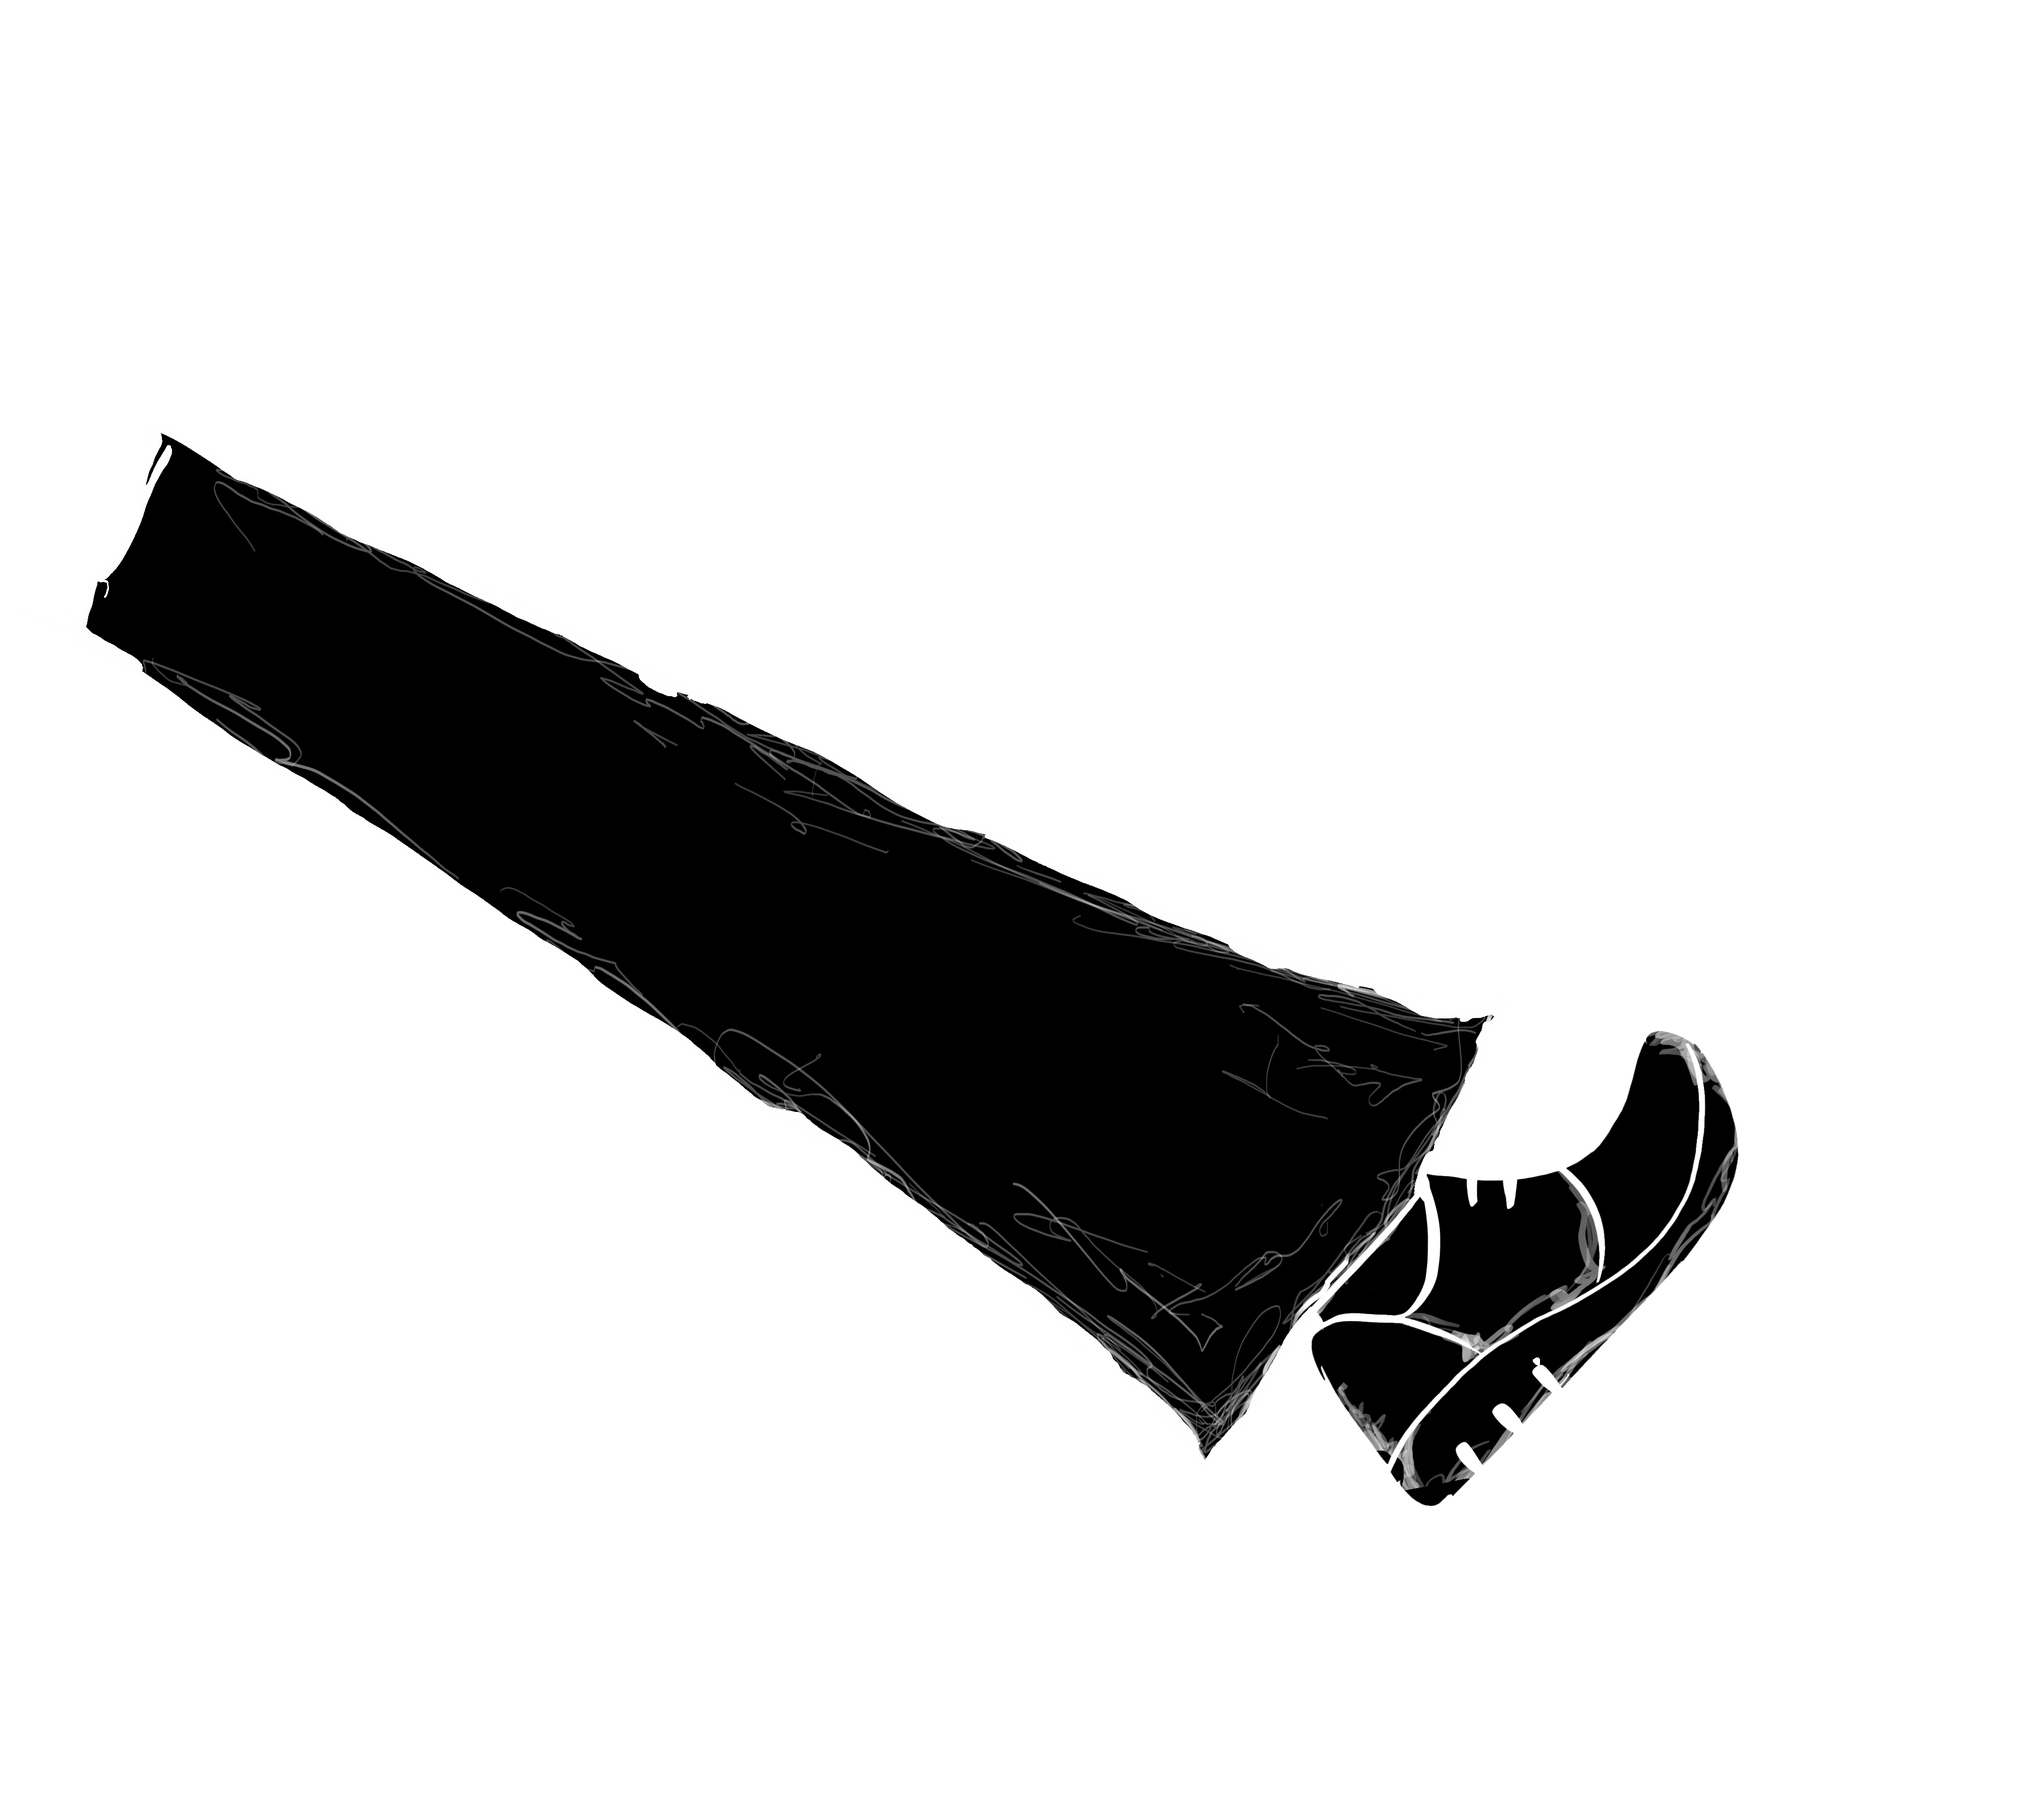
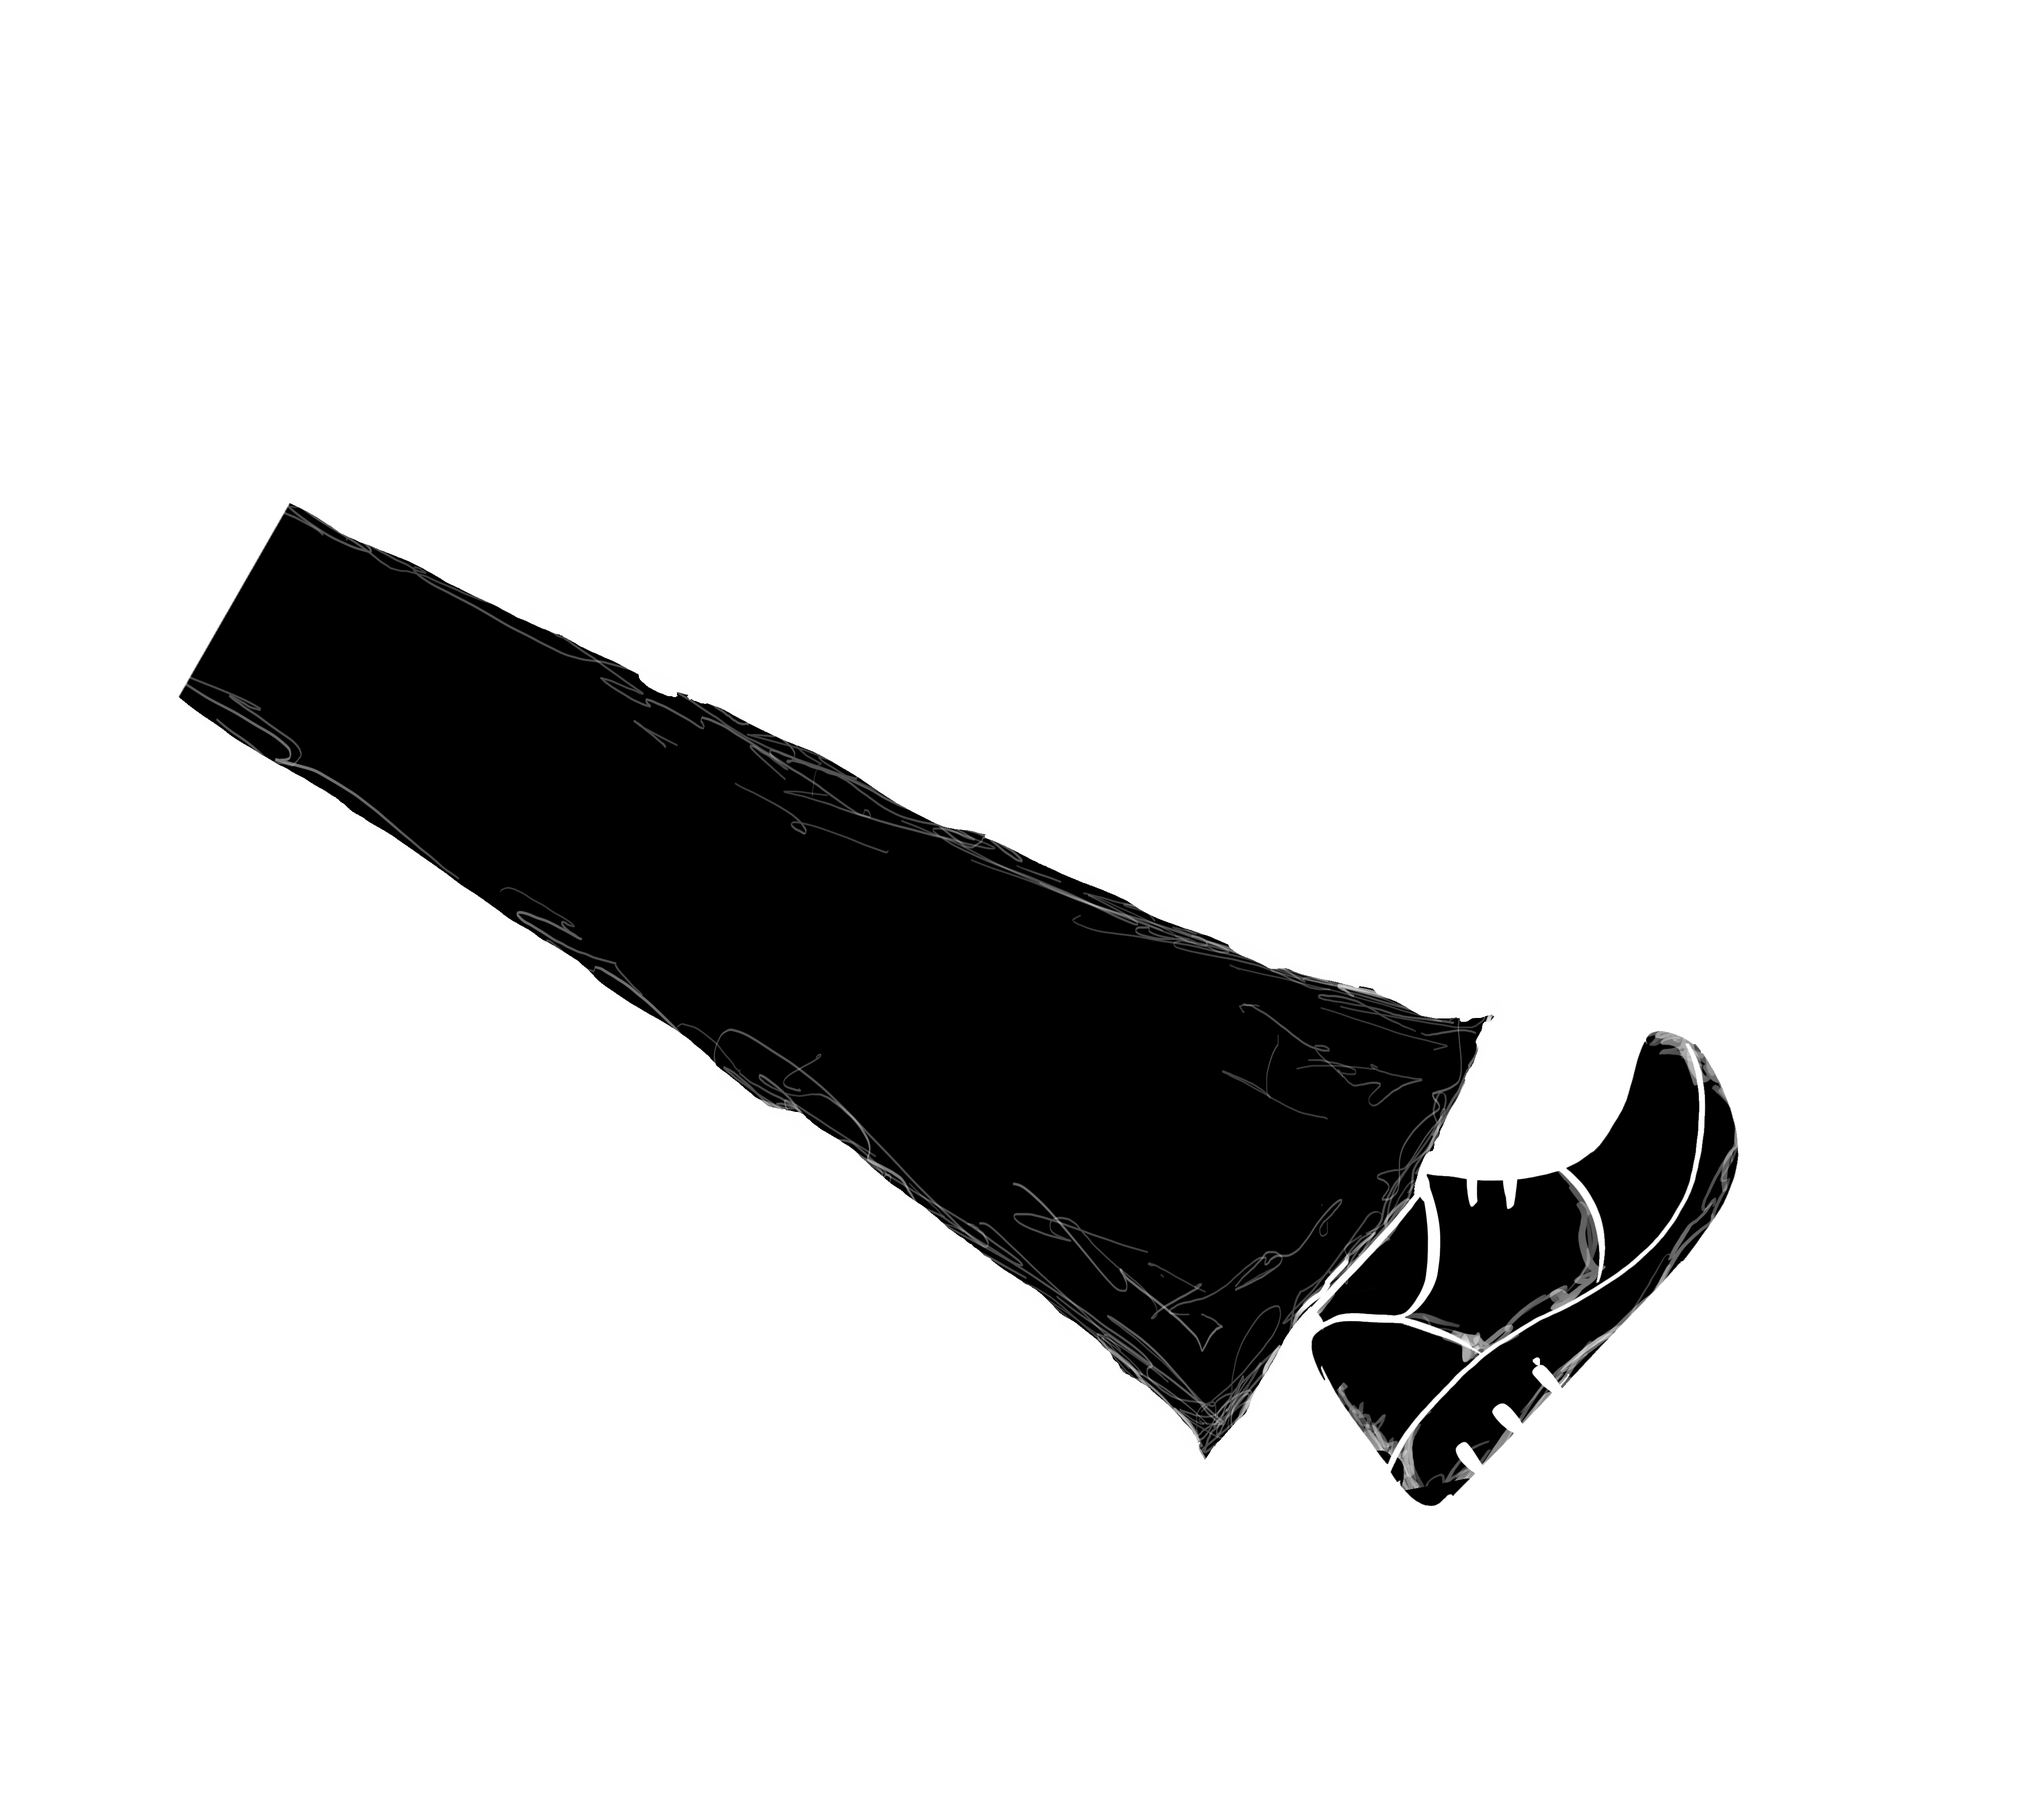
mini anpassungen bilder regencontainer

Changed region(s): [[0.0311, 0.2488, 0.1556, 0.4043]]

diff --git a/js/knopfi.js b/js/knopfi.js
@@ -333,7 +333,7 @@ schuhTimeline.to(schuh, {
 // 3. Schuh bewegt sich und dreht sich gleichzeitig zum Knopf (kick)
 schuhTimeline.to(schuh, {
     left: "0%",
-    rotation: 0,
+    rotation: 30,
     duration: 0.5,
     ease: "power1.inOut"
 }, 0.15);

diff --git a/css/knopfi.css b/css/knopfi.css
@@ -178,10 +178,10 @@ body {
 /* Schuh-Animation */
 
 #schuh {
-  width: 40%;
+  width: 80%;
   position: fixed;
-  top: 15%;
-  left: -20%;
+  top: -70%;
+  left: -100%;
   z-index: 110;
   opacity: 0;
   transform-origin: left top;
